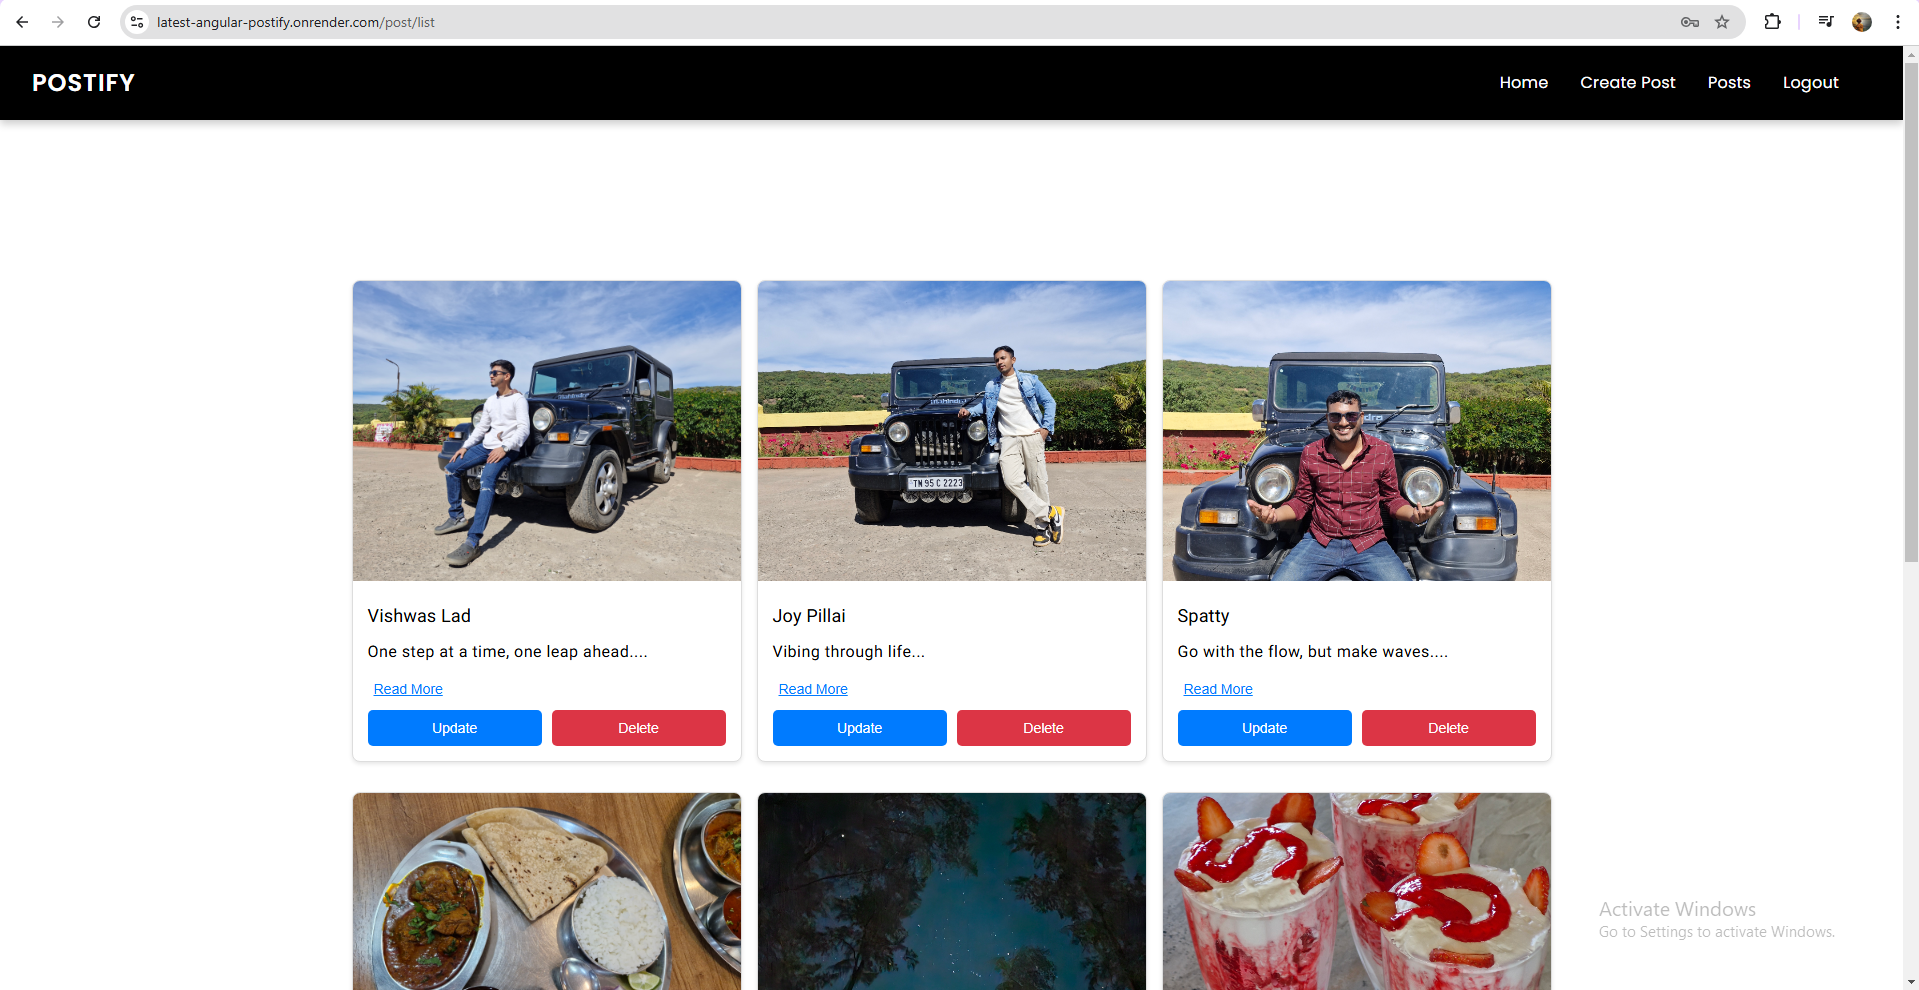
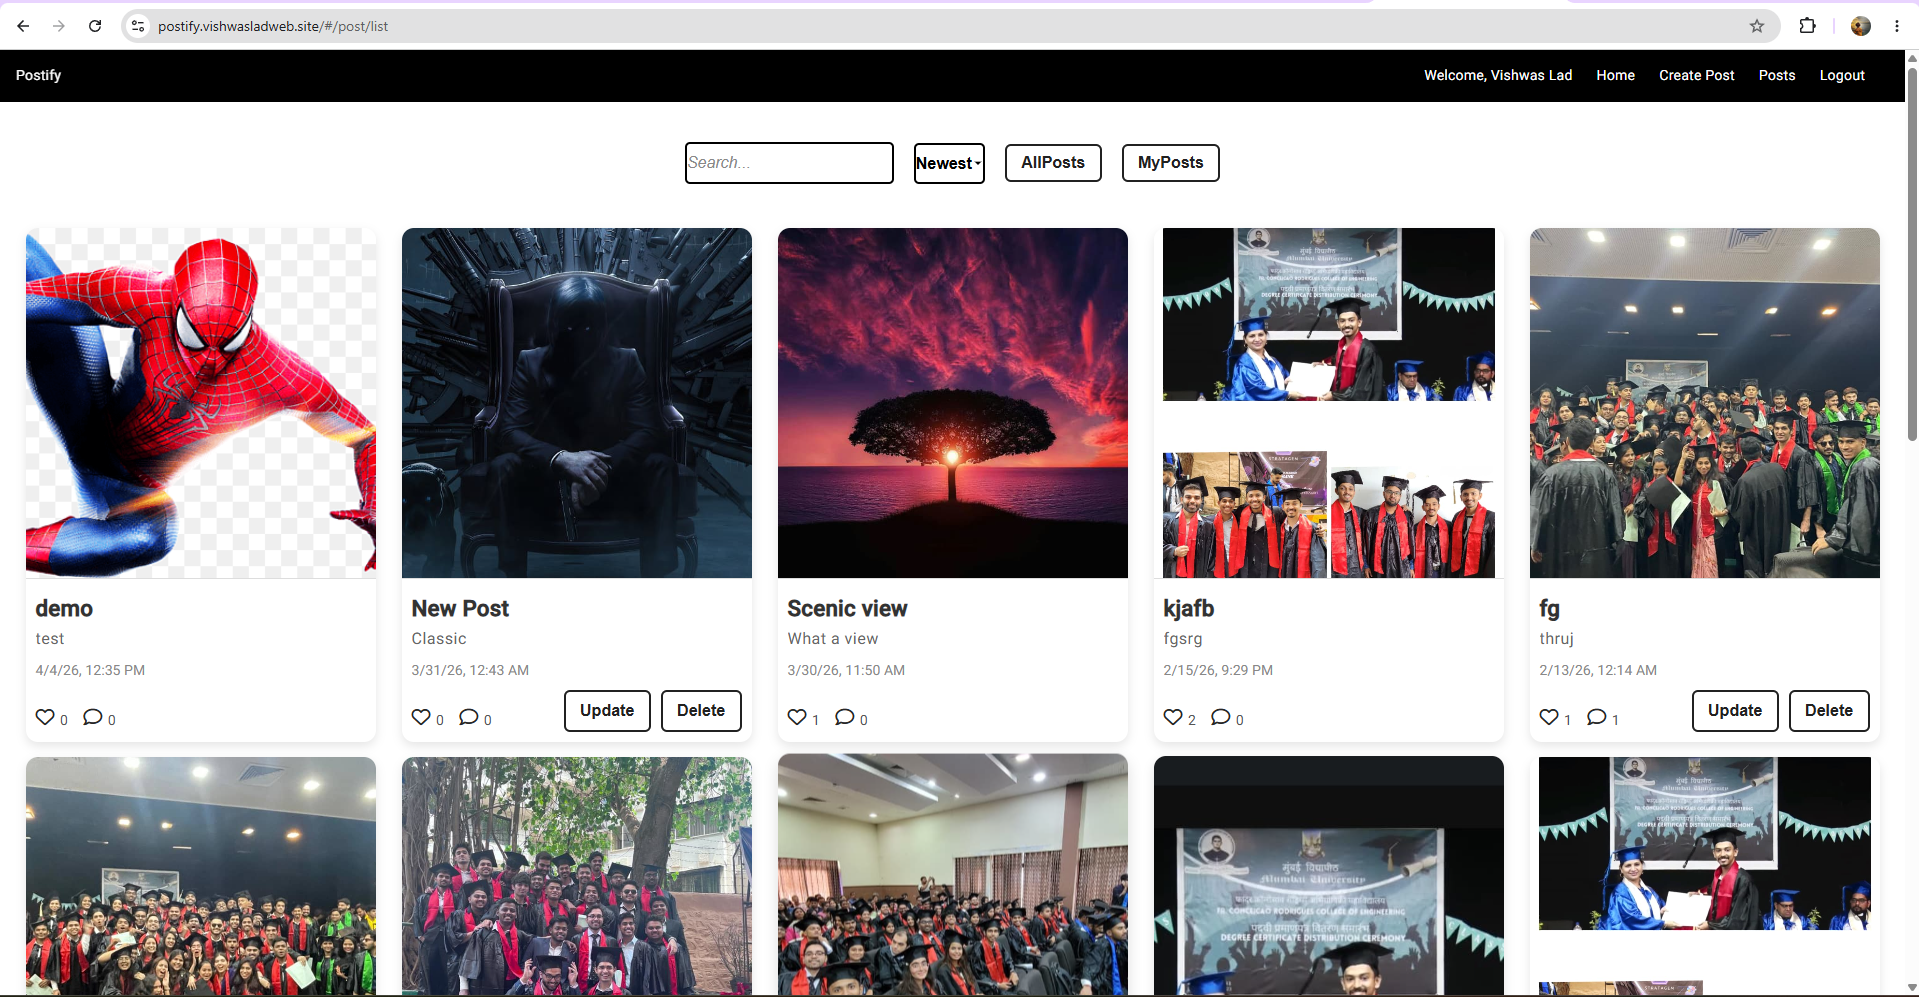
update some images and CSS

diff --git a/src/app/projects/projects.component.ts b/src/app/projects/projects.component.ts
@@ -12,15 +12,22 @@ export class ProjectsComponent {
       title: 'Postify',
       description: 'MEAN stack application which lets users post content online. The application is hosted on the Render hosting platform',
       technologies: ['Angular', 'MongoDb', 'ExpressJS', 'NodeJS','SCSS','RxJS'],
-      images: ['assets/Postify/Create_post.jpg', 'assets/Postify/Postify_Login.png', 'assets/Postify/Posts.png'],
-      link: 'https://latest-angular-postify.onrender.com'
+      images: ['assets/Postify/Home.png', 'assets/Postify/Create.png', 'assets/Postify/Posts.png'],
+      link: 'https://postify.vishwasladweb.site/'
     },
     {
       title: 'Portfolio Website',
       description: 'Personal portfolio website built with Angular framework.',
       technologies: ['Angular', 'EmailJs', 'Html','SCSS','Typescript'],
-      images: ['assets/Portfolio/contact.jpg', 'assets/Portfolio/Home.jpg'],
-      link: 'https://portfolio-jb6b.onrender.com'
+      images: ['assets/Portfolio/Contact.png', 'assets/Portfolio/Landing Page.png','assets/Portfolio/Skills.png'],
+      link: 'https://vishwasladweb.site/'
+    },
+    {
+      title: 'Transcribe',
+      description: 'Personal transcription project',
+      technologies: ['Angular', 'Groq API', 'Html','SCSS','Typescript'],
+      images: ['assets/Transcribe/Home.png', 'assets/Transcribe/transcribe.png'],
+      link: 'https://transcribe.vishwasladweb.site/'
     },
     // Add more projects
   ];

diff --git a/src/app/projects/projects.component.scss b/src/app/projects/projects.component.scss
@@ -41,6 +41,8 @@
     border: 1px solid var(--border);
     border-radius: var(--radius-xl);
     overflow: hidden;
+    display: flex;
+    flex-direction: column;
     transition: all var(--transition-normal);
     animation: fadeInUp 0.6s cubic-bezier(0.16, 1, 0.3, 1) forwards;
     opacity: 0;
@@ -94,6 +96,9 @@
 
     .project-content {
       padding: var(--space-8);
+      display: flex;
+      flex: 1;
+      flex-direction: column;
 
       .project-header {
         display: flex;
@@ -179,6 +184,10 @@
           color: var(--accent-secondary);
           svg { transform: translate(2px, -2px); }
         }
+      }
+
+      .project-actions {
+        margin-top: auto;
       }
     }
   }
@@ -325,4 +334,3 @@
     .project-card .project-content { padding: var(--space-5); }
   }
 }
-

diff --git a/src/app/contact/contact.component.html b/src/app/contact/contact.component.html
@@ -66,7 +66,7 @@
           <textarea 
             id="message"
             formControlName="message" 
-            placeholder="Tell me about your project or just say hello..."
+            placeholder="Share a new opportunity or ideas to build together"
             rows="6"
             class="form-textarea"
             [class.error]="(contactForm.get('message')?.errors?.['required'] || contactForm.get('message')?.errors?.['minlength']) && contactForm.get('message')?.touched"></textarea>

diff --git a/src/index.html b/src/index.html
@@ -5,7 +5,7 @@
   <title>Vishwas's Portfolio</title>
   <base href="/">
   <meta name="viewport" content="width=device-width, initial-scale=1">
-  <link rel="icon" type="image/x-icon" href="favicon.ico">
+  <link rel="icon" type="image/x-icon">
   <link rel="preconnect" href="https://fonts.googleapis.com">
   <link rel="preconnect" href="https://fonts.gstatic.com" crossorigin>
   <link href="https://fonts.googleapis.com/css2?family=Inter:wght@400;500;600;700;800&display=swap" rel="stylesheet">
